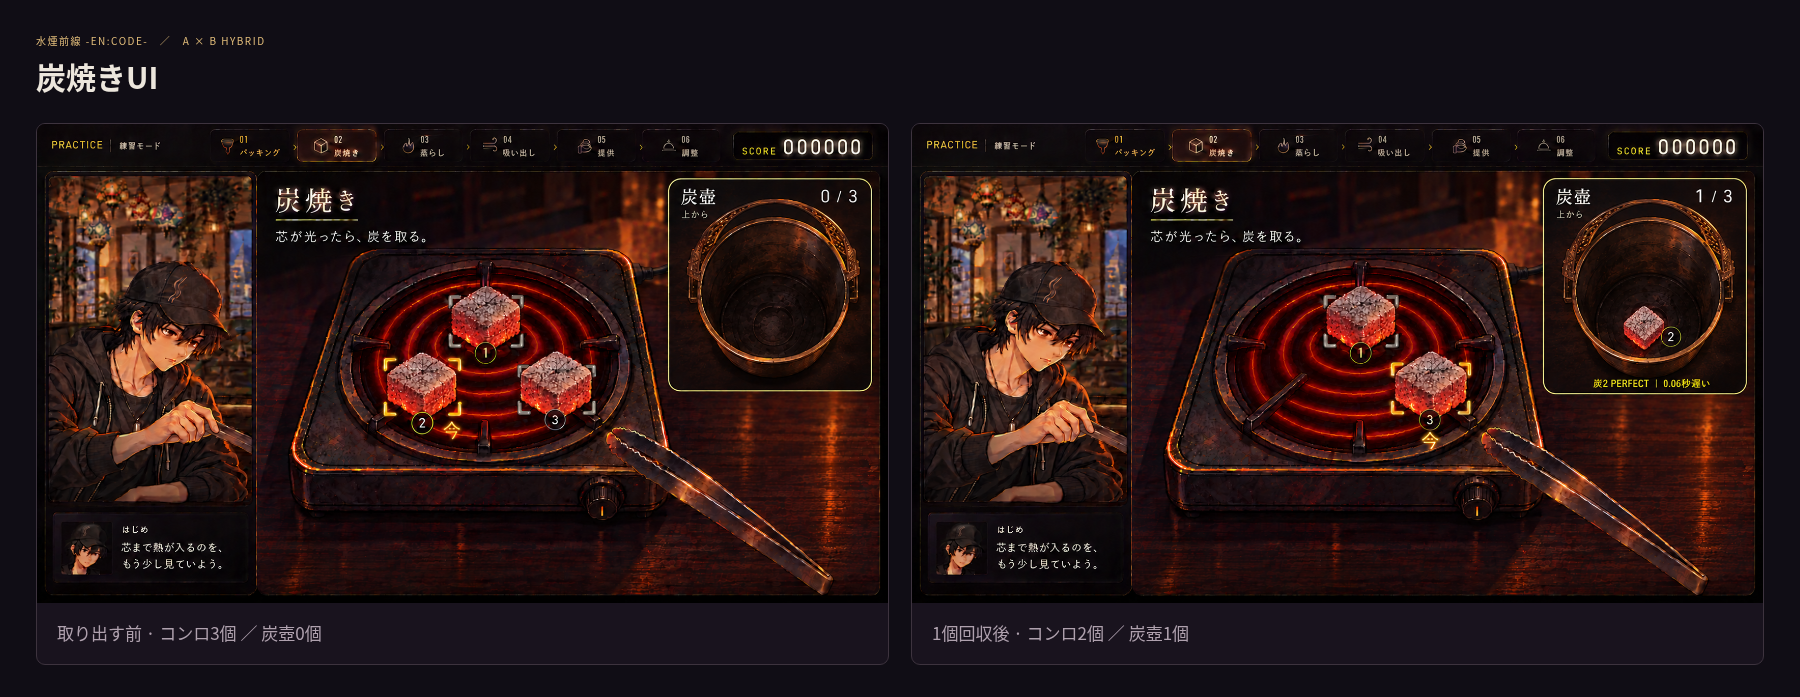
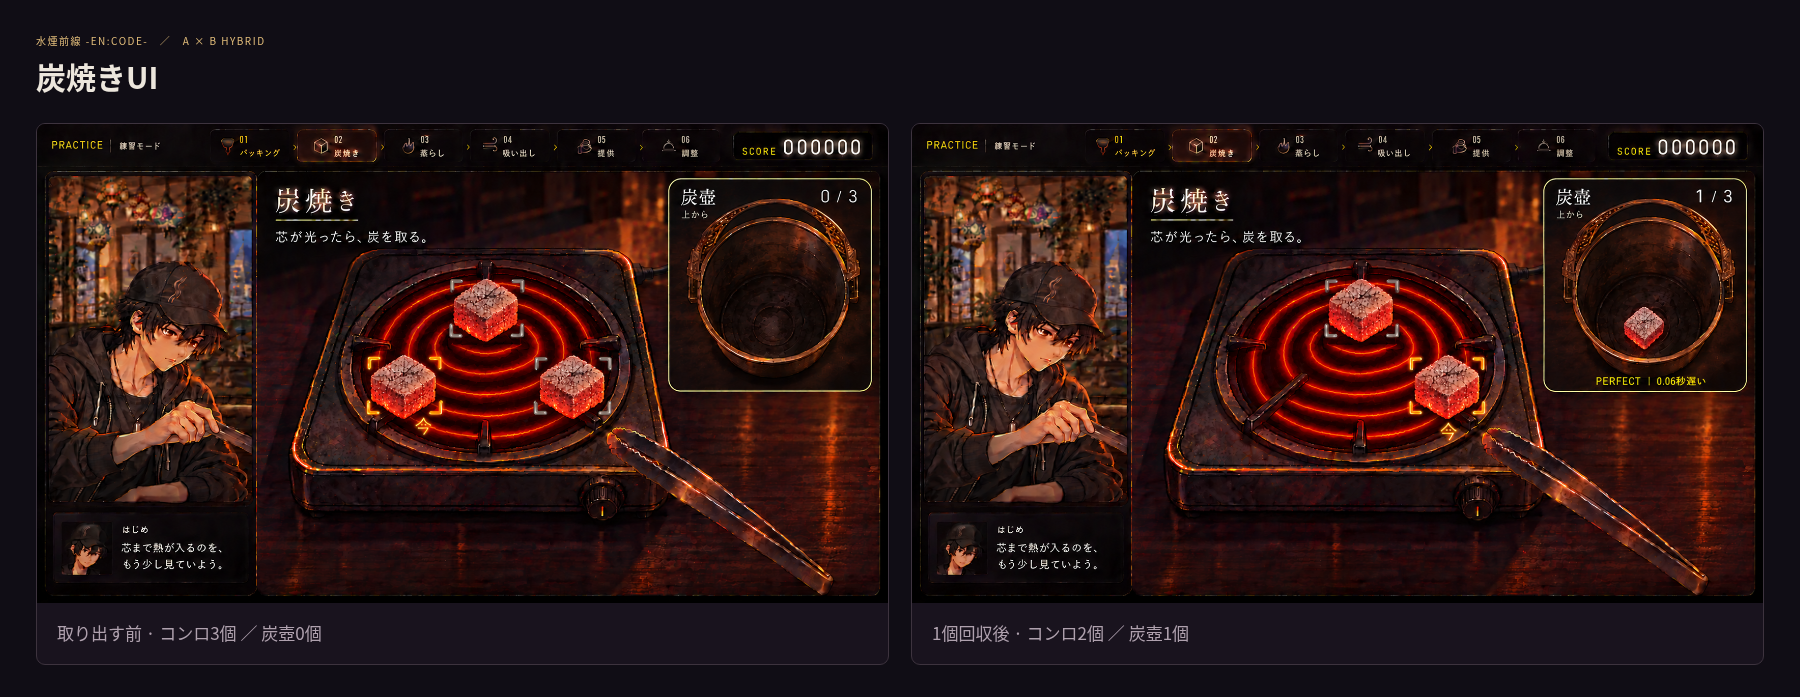
design(heat): remove coal IDs and separate consistent flat placement

diff --git a/asset_sources/coal-heat-ui-proposals/hybrid.html b/asset_sources/coal-heat-ui-proposals/hybrid.html
@@ -14,14 +14,14 @@
 <header><div><p class="eyebrow">水煙前線 -EN:CODE-　／　A × B HYBRID</p><h1>炭焼きUI</h1></div><div class="scope">静止モック<br>画像を押すと拡大</div></header>
 <main>
 <div class="toolbar"><div class="tabs" role="tablist" aria-label="取り出し前後"><button class="tab" role="tab" id="before" aria-selected="true" aria-controls="single" data-state="before">取り出す前 · 0/3</button><button class="tab" role="tab" id="after" aria-selected="false" aria-controls="single" tabindex="-1" data-state="after">1個回収後 · 1/3</button></div><button class="compare-btn" id="compare" aria-pressed="false">前後を並べる</button></div>
-<section id="single" role="tabpanel" aria-labelledby="before"><div class="viewer"><img id="hero" src="AB-hybrid-before.png?rev=panel-v5" alt="取り出し前。コンロに炭3個、炭壺に0個。コンロ後部に電源コード。右上の角丸小窓には別視点で上から見た空の炭壺。" tabindex="0" data-zoom></div></section>
-<section class="both" id="both" aria-label="回収前後の比較" hidden><figure><img src="AB-hybrid-before.png?rev=panel-v5" alt="取り出し前：コンロに3個、炭壺に0個。" tabindex="0" data-zoom><figcaption>取り出す前 · 0/3</figcaption></figure><figure><img src="AB-hybrid-after.png?rev=panel-v5" alt="1個回収後：コンロに2個、別視点の角丸小窓の炭壺に炭2が1個。" tabindex="0" data-zoom><figcaption>1個回収後 · 1/3</figcaption></figure></section>
+<section id="single" role="tabpanel" aria-labelledby="before"><div class="viewer"><img id="hero" src="AB-hybrid-before.png?rev=layout-v6" alt="取り出し前。番号のない炭3個を同じ向きで平置きし、互いに離した配置。炭壺に0個。コンロ後部に電源コード。右上の角丸小窓には別視点で上から見た空の炭壺。" tabindex="0" data-zoom></div></section>
+<section class="both" id="both" aria-label="回収前後の比較" hidden><figure><img src="AB-hybrid-before.png?rev=layout-v6" alt="取り出し前：番号のない炭3個を同じ向きで平置きし、互いに離した配置。炭壺に0個。" tabindex="0" data-zoom><figcaption>取り出す前 · 0/3</figcaption></figure><figure><img src="AB-hybrid-after.png?rev=layout-v6" alt="1個回収後：コンロに2個、別視点の角丸小窓の炭壺に1個。炭の番号なし。" tabindex="0" data-zoom><figcaption>1個回収後 · 1/3</figcaption></figure></section>
 </main>
 <footer><a href="README.md">提案・制作記録</a></footer>
 <dialog id="zoom"><div class="bar"><span id="zoom-title"></span><button class="close" id="close">閉じる　Esc</button></div><img id="zoom-image" alt=""></dialog>
-<div id="board"><div class="board-top"><p class="eyebrow">水煙前線 -EN:CODE-　／　A × B HYBRID</p><h1>炭焼きUI</h1></div><div class="both"><figure><img src="AB-hybrid-before.png?rev=panel-v5" alt="取り出し前"><figcaption>取り出す前 · コンロ3個 ／ 炭壺0個</figcaption></figure><figure><img src="AB-hybrid-after.png?rev=panel-v5" alt="1個回収後"><figcaption>1個回収後 · コンロ2個 ／ 炭壺1個</figcaption></figure></div></div>
+<div id="board"><div class="board-top"><p class="eyebrow">水煙前線 -EN:CODE-　／　A × B HYBRID</p><h1>炭焼きUI</h1></div><div class="both"><figure><img src="AB-hybrid-before.png?rev=layout-v6" alt="取り出し前"><figcaption>取り出す前 · コンロ3個 ／ 炭壺0個</figcaption></figure><figure><img src="AB-hybrid-after.png?rev=layout-v6" alt="1個回収後"><figcaption>1個回収後 · コンロ2個 ／ 炭壺1個</figcaption></figure></div></div>
 <script>
-const states={before:{file:'AB-hybrid-before.png?rev=panel-v5',alt:'取り出し前：コンロに3個、炭壺に0個。'},after:{file:'AB-hybrid-after.png?rev=panel-v5',alt:'1個回収後：コンロに2個、別視点の角丸小窓の炭壺に炭2が1個。'}};
+const states={before:{file:'AB-hybrid-before.png?rev=layout-v6',alt:'取り出し前：番号のない炭3個を同じ向きで平置きし、互いに離した配置。炭壺に0個。'},after:{file:'AB-hybrid-after.png?rev=layout-v6',alt:'1個回収後：コンロに2個、別視点の角丸小窓の炭壺に1個。炭の番号なし。'}};
 const tabs=[...document.querySelectorAll('.tab')],single=document.getElementById('single'),both=document.getElementById('both'),compare=document.getElementById('compare');let current='before';
 function show(key){current=key;const s=states[key];tabs.forEach(t=>{const on=t.dataset.state===key;t.setAttribute('aria-selected',String(on));t.tabIndex=on?0:-1});single.setAttribute('aria-labelledby',key);document.getElementById('hero').src=s.file;document.getElementById('hero').alt=s.alt;single.hidden=false;both.hidden=true;compare.setAttribute('aria-pressed','false');history.replaceState(null,'','#'+key)}
 tabs.forEach((t,i)=>{t.addEventListener('click',()=>show(t.dataset.state));t.addEventListener('keydown',e=>{let n;if(e.key==='ArrowLeft'||e.key==='ArrowRight')n=1-i;if(e.key==='Home')n=0;if(e.key==='End')n=1;if(n!==undefined){e.preventDefault();show(tabs[n].dataset.state);tabs[n].focus()}})});

diff --git a/asset_sources/coal-heat-ui-proposals/README.md b/asset_sources/coal-heat-ui-proposals/README.md
@@ -2,7 +2,7 @@
 
 ## 最新の選定モック：A/B統合・実物の炭と炭壺
 
-ユーザーがA/Bのハイブリッドを選定。炭の質感と炭壺を実物に寄せ、凡例を削除し、電源コードを後部へ修正。最新モックでは炭壺を右上の独立した角丸小窓へ移し、上から見る別視点として表示する。回収炭は灰・欠けた輪郭・番号2で、取る前の炭とのつながりを見せる。
+ユーザーがA/Bのハイブリッドを選定。炭の質感と炭壺を実物に寄せ、凡例を削除し、電源コードを後部へ修正。炭壺は右上の独立した角丸小窓へ移し、上から見る別視点として表示する。最新モックでは炭の番号を全て外し、コンロ上の3個を同じ向きで平置きして、互いの間にコイルが見える間隔を空けた。回収炭にも灰・欠けた輪郭・赤い熾きを残す。
 
 [専用プレビュー](https://shisha-coal-ui-preview.briskdill17.chatgpt.site) ／ [統合版の前後比較ページ](hybrid.html) ／ [前後の一覧画像](hybrid-comparison.png) ／ [実物の参考と描き分け](hybrid-reference.md)
 
@@ -12,14 +12,15 @@
 
 - **焼け頃の炭**：薄い白〜灰色の灰と赤い熾き。大きな黒い未着火の面・溶岩の割れ目・白い火口を見直し、圧縮された炭の細かな粒を描く。
 - **回収先**：単一の深い金属の炭壺を、右上の角丸小窓に上から表示。枠・視点の違いで別のカメラだと示す。仕切りや3つの収納枠は使わない。
-- **操作**：Aの寄り画と静かなコイルを土台に、Bの番号・角括弧・「今」を加える。実物の灰・熾きと、ゲーム用の判定合図を分ける。
+- **操作**：Aの寄り画を土台に、Bの角括弧・「今」で取る炭を示す。炭ごとの丸い番号バッジと判定文の「炭2」は削除。工程番号、SCORE、0/3→1/3の進行表示は維持する。
+- **置き方**：炭の底面がコイルへ接する平置きにそろえ、向き・傾きもそろえる。奥に1個、手前左右に2個の三角配置を広げ、炭同士の間に見える隙間を作る。回収後も残る炭を移動しない。熱が入りそうに見える配置の提案であり、均等加熱の実測や本編の焼ける速度の変更は行っていない。
 - **個数**：取り出し前はコンロ3個／壺0個。1個回収後はコンロ2個／壺1個。回収数と短い判定記録は角丸小窓の中へまとめる。
 - **説明の整理**：「黒い芯→赤熱→芯が光る→灰かぶり」の常設カードを画像から削除。比較ページ下の説明も外し、画像と前後切替を中心にする。
 - **電源**：前面の誤った接続部と下のコードを削除し、コンロ後部の右寄りから一本のコードを引き出す。加熱部を跨がず、奥の台から画面外の電源へ続く。
 - **持ち手**：長い持ち手は小窓の奥側へ向け、上から中身を見られる姿勢へ。深い一つの受け部を維持する。
-- **炭のつながり**：整った別のキューブへ置換せず、灰の粒・欠けた角・赤い熾きを回収炭にも残す。番号2も添え、元の操作対象と対応させる。小窓は独立した視点なので、メインと同じ距離にある小さな物体として見せない。
+- **炭のつながり**：整った別のキューブへ置換せず、灰の粒・欠けた角・赤い熾きを回収炭にも残す。小窓は独立した視点なので、メインと同じ距離にある小さな物体として見せない。
 
-左下の突起は最新指示で削除し、普通の角丸四角に統一した。[今回の構図・編集指示・原画確認](hybrid-inset-generation.json)。同じ机の上に小さな炭壺を置いていた前版と寸法計算は [iterations/hybrid-v3/](iterations/hybrid-v3/) に保存。前面コード版は [iterations/hybrid-v2/](iterations/hybrid-v2/)、説明カードあり・電源コードなし版は [iterations/hybrid-v1/](iterations/hybrid-v1/) に保存。
+炭壺の小窓は突起のない普通の角丸四角を維持。[最新の配置・番号削除の編集指示と原画確認](hybrid-layout-generation.json)。番号は消えたものの間隔が狭かった最初の生成を [iterations/layout-v6-first/](iterations/layout-v6-first/) に保存し、配置を広げた修正版を採用した。直前の番号あり版はコミット `7f52c2d4c27cc26db22f5a85de353ad50a9219fd` に保存。小窓の制作履歴は [hybrid-inset-generation.json](hybrid-inset-generation.json)。同じ机の上に小さな炭壺を置いていた前版と寸法計算は [iterations/hybrid-v3/](iterations/hybrid-v3/) に保存。前面コード版は [iterations/hybrid-v2/](iterations/hybrid-v2/)、説明カードあり・電源コードなし版は [iterations/hybrid-v1/](iterations/hybrid-v1/) に保存。
 
 統合版も採用前の静止モック。本編操作・採点・回収アニメーションは未接続。旧3案と初版は比較履歴として残す。下の旧案に描かれた炭の質感と3区画の回収皿は採用しない。
 
